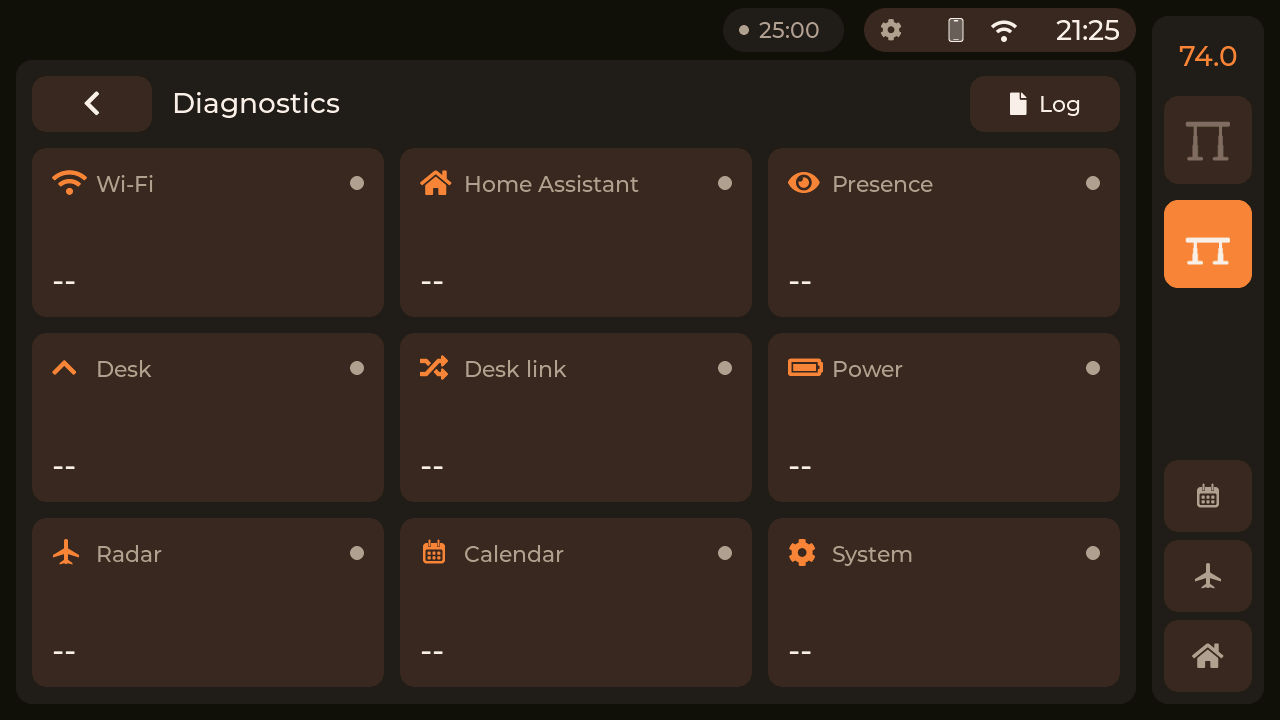
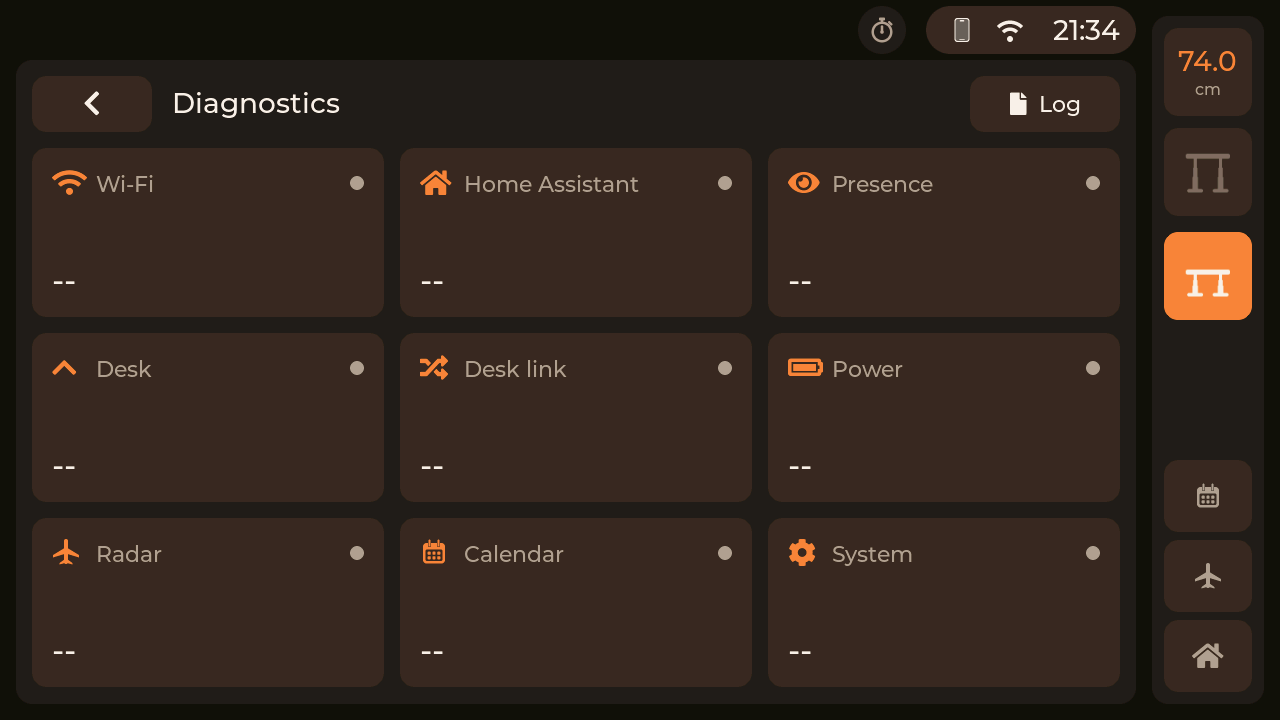
Make the top row easier to hit and quieter: the badge and the status a little taller, with room round them that takes a tap, the cog gone, each mark of the status in a slot as wide so they stand evenly on one line, the battery its cell alone, and the timer drawn small while idle; the row stands agai

diff --git a/components/ui/fullscreen_chrome.cpp b/components/ui/fullscreen_chrome.cpp
@@ -34,7 +34,6 @@ constexpr std::int32_t  CELL_H     = 16;
 constexpr std::int32_t  CELL_LINE  = 2;
 constexpr std::int32_t  CELL_NUB_W = 3;    // and the nub at its end
 constexpr std::int32_t  CELL_NUB_H = 6;
-constexpr std::int32_t  CELL_GAP   = 8;    // between it and its percent
 constexpr int           LOW_PERCENT = 20;
 constexpr time_t        CLOCK_SET = 1'700'000'000;  // any earlier and the clock is not set yet
 
@@ -47,7 +46,6 @@ struct Clock {
     lv_obj_t *power = nullptr;  // fades with the buttons; what is in it shows only unplugged
     lv_obj_t *cell  = nullptr;
     lv_obj_t *fill  = nullptr;
-    lv_obj_t *percent = nullptr;
 };
 std::deque<Clock> s_clocks;  // a deque, so what follows each keeps its place
 
@@ -63,23 +61,18 @@ void place(const Clock &clock)
     }
 }
 
-// How full the pack is, while the panel runs on it.
+// How full the pack is, while the panel runs on it: the cell filled as far,
+// amber once low.
 void show_power(const Clock &clock)
 {
     const StatusState &status = status_state();
     lv_obj_set_hidden(clock.cell, !status.on_battery);
-    lv_obj_set_hidden(clock.percent, !status.on_battery);
     if (!status.on_battery) {
         return;
     }
-    const int      percent = std::clamp(status.battery_percent, 0, 100);
-    const std::uint32_t ink = percent <= LOW_PERCENT ? theme::amber : theme::text;
+    const int percent = std::clamp(status.battery_percent, 0, 100);
     lv_obj_set_width(clock.fill, std::max<std::int32_t>(1, (CELL_W - 4 * CELL_LINE) * percent / 100));
-    theme::set_bg_color(clock.fill, ink);
-    char text[8];
-    std::snprintf(text, sizeof(text), "%d%%", percent);
-    theme::set_text(clock.percent, text);
-    theme::set_text_color(clock.percent, ink);
+    theme::set_bg_color(clock.fill, percent <= LOW_PERCENT ? theme::amber : theme::text);
 }
 
 void build_power(Clock &clock, lv_obj_t *root)
@@ -87,9 +80,6 @@ void build_power(Clock &clock, lv_obj_t *root)
     clock.power = lv_obj_create(root);
     lv_obj_remove_style_all(clock.power);
     lv_obj_set_size(clock.power, LV_SIZE_CONTENT, LV_SIZE_CONTENT);
-    lv_obj_set_flex_flow(clock.power, LV_FLEX_FLOW_ROW);
-    lv_obj_set_flex_align(clock.power, LV_FLEX_ALIGN_START, LV_FLEX_ALIGN_CENTER, LV_FLEX_ALIGN_CENTER);
-    lv_obj_set_style_pad_column(clock.power, CELL_GAP, 0);
     lv_obj_set_clickable(clock.power, false);
 
     clock.cell = lv_obj_create(clock.power);
@@ -112,12 +102,6 @@ void build_power(Clock &clock, lv_obj_t *root)
     theme::style_panel(clock.fill, theme::text, 1);
     lv_obj_set_size(clock.fill, 1, CELL_H - 4 * CELL_LINE);
     lv_obj_set_pos(clock.fill, 2 * CELL_LINE, 2 * CELL_LINE);
-
-    clock.percent = theme::make_label(clock.power, "", theme::text, fonts::size_22());
-    lv_point_t widest{};
-    lv_text_get_size(&widest, "100%", fonts::size_22(), 0, 0, LV_COORD_MAX, LV_TEXT_FLAG_NONE);
-    lv_obj_set_width(clock.percent, widest.x);  // one width, whatever its digits say
-    lv_obj_set_style_text_align(clock.percent, LV_TEXT_ALIGN_RIGHT, 0);
 }
 
 void tell_time(const Clock &clock)
@@ -187,6 +171,9 @@ void build_badge(Clock &clock, lv_obj_t *root, lv_event_cb_t on_click)
 
 namespace {
 constexpr std::int32_t STATUS_GAP       = 20;  // between what the top row holds
+constexpr std::int32_t SLOT_W           = 40;  // each of the status's marks, centred in one as wide
+constexpr std::int32_t SLOT_GAP         = 8;
+constexpr std::int32_t TAP_MARGIN       = 12;  // round the badge and the status, to be hit easily
 constexpr std::int32_t UPDATE_ICON_SIDE = 28;
 constexpr std::int32_t UPDATE_BAR_H     = 3;
 constexpr std::int32_t UPDATE_BAR_GAP   = 4;
@@ -201,6 +188,9 @@ lv_obj_t *s_setup_dot   = nullptr;
 Clock    *s_top         = nullptr;
 lv_obj_t *s_wifi_icon   = nullptr;
 lv_obj_t *s_phone_icon  = nullptr;
+lv_obj_t *s_slots[4]    = {};       // the battery, the phone, Wi-Fi and the time, from the page out
+lv_obj_t *s_idle_mark   = nullptr;  // the timer drawn in the badge while it is idle
+std::int32_t s_badge_w  = 0;        // the badge's width while the timer runs
 lv_obj_t *s_update_box  = nullptr;  // while an update arrives, for whichever board
 lv_obj_t *s_update_icon = nullptr;
 lv_obj_t *s_update_bar  = nullptr;  // how far it is, under the icon
@@ -247,6 +237,7 @@ void paint_status()
         lv_image_set_src(s_wifi_icon, status.wifi ? &icons::wifi_icon : &icons::wifi_off_icon);
     }
     show_power(*s_top);
+    lv_obj_set_hidden(s_slots[0], !status.on_battery);
     show_top_focus();
 }
 
@@ -255,18 +246,42 @@ void paint_status()
 void show_top_focus()
 {
     show_focus(*s_top);
-    const Focus &focus = focus_state();
-    const bool   away  = s_presence_gate && !status_state().present;
+    const bool away = s_presence_gate && !status_state().present;
+    const bool idle = focus_idle(focus_state());
+    // Idle, only the timer drawn, as round as the row is tall.
     lv_obj_set_hidden(s_top->badge, away);
-    if (!away && focus_idle(focus)) {
-        char text[16];
-        std::snprintf(text, sizeof(text), "%02d:00", focus.work_min);
-        theme::set_text(s_top->left, text);
-        theme::set_text_color(s_top->left, theme::secondary);
-        theme::set_bg_color(s_top->dot, theme::secondary);
-    } else {
-        theme::set_text_color(s_top->left, theme::text);
+    lv_obj_set_hidden(s_idle_mark, !idle);
+    lv_obj_set_hidden(s_top->dot, idle);
+    lv_obj_set_hidden(s_top->left, idle);
+    lv_obj_set_width(s_top->badge, idle ? TOP_H : s_badge_w);
+    lv_obj_set_style_pad_hor(s_top->badge, idle ? 0 : BADGE_PAD, 0);
+}
+
+lv_obj_t *make_slot(lv_obj_t *parent, std::int32_t w)
+{
+    lv_obj_t *slot = lv_obj_create(parent);
+    lv_obj_remove_style_all(slot);
+    lv_obj_set_size(slot, w, TOP_H);
+    lv_obj_set_clickable(slot, false);
+    lv_obj_set_scrollable(slot, false);
+    return slot;
+}
+
+// The status against the dock, the time at its edge, and the badge beside it.
+void arrange_top()
+{
+    const bool right = layout().rail_right;
+    lv_obj_set_flex_align(s_top_bar, right ? LV_FLEX_ALIGN_END : LV_FLEX_ALIGN_START, LV_FLEX_ALIGN_CENTER,
+                          LV_FLEX_ALIGN_CENTER);
+    lv_obj_t *const row[] = {s_top->badge, s_update_box, s_status};
+    for (int i = 0; i < 3; ++i) {
+        lv_obj_move_to_index(row[right ? i : 2 - i], i);
     }
+    for (int i = 0; i < 4; ++i) {
+        lv_obj_move_to_index(s_slots[right ? i : 3 - i], i);
+    }
+    lv_obj_set_style_text_align(s_top->label, right ? LV_TEXT_ALIGN_RIGHT : LV_TEXT_ALIGN_LEFT, 0);
+    lv_obj_align(s_setup_dot, right ? LV_ALIGN_TOP_RIGHT : LV_ALIGN_TOP_LEFT, right ? STATUS_PAD / 2 : -STATUS_PAD / 2, 0);
 }
 }  // namespace
 
@@ -286,6 +301,12 @@ void create_top_bar(lv_obj_t *parent)
     build_badge(*s_top, s_top_bar, [](lv_event_t *) { toggle_focus_popout(s_top->badge, s_top_bar); });
     lv_obj_set_style_bg_color(s_top->badge, lv_color_hex(theme::panel_light), LV_STATE_CHECKED);
     lv_obj_set_style_bg_color(s_top->badge, lv_color_hex(theme::panel_light), LV_STATE_PRESSED);
+    lv_obj_set_height(s_top->badge, TOP_H);
+    lv_obj_set_flex_align(s_top->badge, LV_FLEX_ALIGN_CENTER, LV_FLEX_ALIGN_CENTER, LV_FLEX_ALIGN_CENTER);
+    lv_obj_set_ext_click_area(s_top->badge, TAP_MARGIN);
+    s_badge_w   = lv_obj_get_style_width(s_top->badge, LV_PART_MAIN);
+    s_idle_mark = make_status_icon(s_top->badge, &icons::timer_icon);
+    lv_obj_set_style_image_recolor(s_idle_mark, lv_color_hex(theme::secondary), 0);
     build_update(s_top_bar);
 
     // The battery, the phone, Wi-Fi and the time are where Setup opens.
@@ -295,18 +316,24 @@ void create_top_bar(lv_obj_t *parent)
     lv_obj_set_flex_flow(s_status, LV_FLEX_FLOW_ROW);
     lv_obj_set_flex_align(s_status, LV_FLEX_ALIGN_START, LV_FLEX_ALIGN_CENTER, LV_FLEX_ALIGN_CENTER);
     lv_obj_set_style_pad_hor(s_status, STATUS_PAD, 0);
-    lv_obj_set_style_pad_column(s_status, STATUS_GAP, 0);
+    lv_obj_set_style_pad_column(s_status, SLOT_GAP, 0);
+    lv_obj_set_ext_click_area(s_status, TAP_MARGIN);
     lv_obj_set_style_radius(s_status, theme::radius::pill, 0);
     for (const lv_state_t state : {LV_STATE_PRESSED, LV_STATE_CHECKED}) {
         lv_obj_set_style_bg_color(s_status, lv_color_hex(theme::panel_light), state);
         lv_obj_set_style_bg_opa(s_status, LV_OPA_COVER, state);
     }
     lv_obj_add_event_cb(s_status, [](lv_event_t *) { toggle_setup(); }, LV_EVENT_CLICKED, nullptr);
-    theme::make_label(s_status, LV_SYMBOL_SETTINGS, theme::secondary, fonts::size_22());
-    build_power(*s_top, s_status);
-    s_phone_icon = make_status_icon(s_status, &icons::phone_off_icon);
-    s_wifi_icon  = make_status_icon(s_status, &icons::wifi_off_icon);
-    s_top->label = theme::make_label(s_status, "", theme::text, fonts::size_28());
+    for (lv_obj_t *&slot : s_slots) {
+        slot = make_slot(s_status, SLOT_W);
+    }
+    build_power(*s_top, s_slots[0]);
+    lv_obj_center(s_top->power);
+    s_phone_icon = make_status_icon(s_slots[1], &icons::phone_off_icon);
+    s_wifi_icon  = make_status_icon(s_slots[2], &icons::wifi_off_icon);
+    lv_obj_center(s_phone_icon);
+    lv_obj_center(s_wifi_icon);
+    s_top->label = theme::make_label(s_slots[3], "00:00", theme::text, fonts::size_28());
     std::int32_t widest = 0;  // so the status keeps its width as the minutes go by
     for (char d = '0'; d <= '9'; ++d) {
         const char text[] = {d, d, ':', d, d, '\0'};
@@ -314,8 +341,11 @@ void create_top_bar(lv_obj_t *parent)
         lv_text_get_size(&size, text, fonts::size_28(), 0, 0, LV_COORD_MAX, LV_TEXT_FLAG_NONE);
         widest = std::max(widest, size.x);
     }
+    lv_obj_set_width(s_slots[3], widest);
+    theme::center_ink(s_top->label);  // level with the marks, by the digits rather than the line
     lv_obj_set_width(s_top->label, widest);
-    lv_obj_set_style_text_align(s_top->label, LV_TEXT_ALIGN_RIGHT, 0);
+    lv_obj_set_x(s_top->label, 0);
+    lv_obj_set_align(s_top->label, LV_ALIGN_LEFT_MID);
     s_setup_dot = lv_obj_create(s_status);
     theme::style_panel(s_setup_dot, theme::panel, SETUP_DOT / 2);
     theme::fill_accent(s_setup_dot);
@@ -349,6 +379,7 @@ void place_top_bar()
     const Layout l = layout();
     lv_obj_set_pos(s_top_bar, l.content_x, TOP_Y);
     lv_obj_set_width(s_top_bar, l.content_w);
+    arrange_top();
 }
 
 void paint_setup_dot(bool ready)

diff --git a/components/ui/rail.cpp b/components/ui/rail.cpp
@@ -20,7 +20,6 @@ namespace {
 constexpr std::int32_t DOCK_PAD      = 12;
 constexpr std::int32_t DOCK_INNER_W  = DOCK_W - 2 * DOCK_PAD;  // Stand and Sit are as tall, square to the finger
 constexpr std::int32_t DOCK_GAP      = 12;
-constexpr std::int32_t DOCK_HEIGHT_H = 56;
 constexpr std::int32_t DOCK_DESK_ICON = 46;
 
 constexpr std::int32_t SHEET_PAD     = 28;
@@ -193,6 +192,7 @@ Shortcuts *add_shortcuts(lv_obj_t *root, bool column, std::int32_t side, std::in
 
 lv_obj_t   *s_tabs          = nullptr;  // the dock's column of tabs
 lv_obj_t   *s_dock_height   = nullptr;  // the height, at the dock's head
+lv_obj_t   *s_dock_unit     = nullptr;  // cm, under it
 lv_obj_t   *s_height_button = nullptr;  // around it: folds the desk out
 Popout      s_desk;                     // the rest of the desk, folded out beside the height
 lv_obj_t   *s_sheet         = nullptr;  // its card
@@ -207,18 +207,17 @@ void build_dock_desk(lv_obj_t *dock)
     lv_obj_align(head, LV_ALIGN_TOP_MID, 0, 0);
     lv_obj_set_clickable(head, false);
 
+    // As big as Stand and Sit under it, being as much a button.
     lv_obj_t *height = lv_button_create(head);
     s_height_button  = height;
-    lv_obj_remove_style_all(height);
-    lv_obj_set_size(height, DOCK_INNER_W, DOCK_HEIGHT_H);
-    lv_obj_set_style_radius(height, theme::radius::control, 0);
-    for (const lv_state_t state : {LV_STATE_PRESSED, LV_STATE_CHECKED}) {
-        lv_obj_set_style_bg_color(height, lv_color_hex(theme::panel_light), state);
-        lv_obj_set_style_bg_opa(height, LV_OPA_COVER, state);
-    }
+    theme::style_button(height, theme::panel_light);
+    lv_obj_set_size(height, DOCK_INNER_W, DOCK_INNER_W);
+    theme::fill_accent(height, LV_STATE_CHECKED);
+    lv_obj_set_flex_flow(height, LV_FLEX_FLOW_COLUMN);
+    lv_obj_set_flex_align(height, LV_FLEX_ALIGN_CENTER, LV_FLEX_ALIGN_CENTER, LV_FLEX_ALIGN_CENTER);
     lv_obj_add_event_cb(height, [](lv_event_t *) { open_desk_sheet(!s_desk.open); }, LV_EVENT_CLICKED, nullptr);
     s_dock_height = theme::make_label(height, "--", theme::primary, fonts::size_28());
-    lv_obj_center(s_dock_height);
+    s_dock_unit   = theme::make_label(height, "cm", theme::secondary, theme::type_label());
 
     add_shortcuts(head, true, DOCK_INNER_W, theme::radius::control, DOCK_DESK_ICON, theme::panel_light);
 }
@@ -346,6 +345,11 @@ void create_desk_sheet(lv_obj_t *parent)
     s_sheet       = build_popout(s_desk, parent, DRAWER_W, SHEET_GAP, GAP, SHEET_IDLE_MS);
     s_desk.button = s_height_button;
     s_desk.above  = s_rail;
+    // On the accent while out, the height on it in the text's colour.
+    s_desk.lit = [](bool open) {
+        theme::set_text_color(s_dock_height, open ? theme::text : theme::primary);
+        theme::set_text_color(s_dock_unit, open ? theme::text : theme::secondary);
+    };
     lv_obj_set_style_pad_all(s_sheet, SHEET_PAD, 0);
     lv_obj_set_flex_flow(s_sheet, LV_FLEX_FLOW_ROW_WRAP);
     lv_obj_set_style_pad_row(s_sheet, SHEET_BTN_GAP, 0);

diff --git a/components/ui/focus_page.cpp b/components/ui/focus_page.cpp
@@ -573,8 +573,9 @@ void toggle_focus_popout(lv_obj_t *badge, lv_obj_t *above)
         lv_area_t at;
         lv_obj_update_layout(badge);
         lv_obj_get_coords(badge, &at);
-        // Its right edge under the badge's, just below the row.
-        detail::place_popout(s_pop, at.x2 + 1 + detail::GAP, at.y2 + 1, true);
+        // Under the badge, its edge level with the badge's on the dock's side.
+        const bool right = detail::layout().rail_right;
+        detail::place_popout(s_pop, right ? at.x2 + 1 + detail::GAP : at.x1 - detail::GAP, at.y2 + 1, right);
         s_pop.button = badge;
         s_pop.above  = above;
         show_pop_part();

diff --git a/components/ui/ui_internal.h b/components/ui/ui_internal.h
@@ -45,8 +45,8 @@ constexpr std::int32_t GAP        = 16;
 // The frame: a dock at one side with the tabs and the desk, a row along the
 // top with the time and what goes on elsewhere, and the page in the rest.
 constexpr std::int32_t DOCK_W      = 112;
-constexpr std::int32_t TOP_Y       = 8;    // the top row
-constexpr std::int32_t TOP_H       = 44;
+constexpr std::int32_t TOP_Y       = 6;    // the top row
+constexpr std::int32_t TOP_H       = 48;
 constexpr std::int32_t CONTENT_Y   = 60;   // the page under it
 
 constexpr std::int32_t PANEL_PAD  = 16;

diff --git a/components/ui/popout.h b/components/ui/popout.h
@@ -18,6 +18,7 @@ struct Popout {
     lv_obj_t    *card     = nullptr;
     lv_obj_t    *button   = nullptr;  // what opens it, lit while it is out
     lv_obj_t    *above    = nullptr;  // kept over the scrim while it is out, to be used meanwhile
+    void (*lit)(bool open) = nullptr;  // told as it comes and goes, to paint its button
     lv_timer_t  *idle     = nullptr;
     std::int32_t x        = 0;  // the corner it unfolds from
     std::int32_t y        = 0;

diff --git a/components/ui/popout.cpp b/components/ui/popout.cpp
@@ -134,6 +134,9 @@ void open_popout(Popout &p, bool open)
     if (p.button != nullptr) {
         lv_obj_set_state(p.button, LV_STATE_CHECKED, open);
     }
+    if (p.lit != nullptr) {
+        p.lit(open);
+    }
     // The scrim is clear and what stays over it lies beside the card, so none
     // of them changes a pixel by coming or going; drawn again, they would cost
     // the whole screen.
